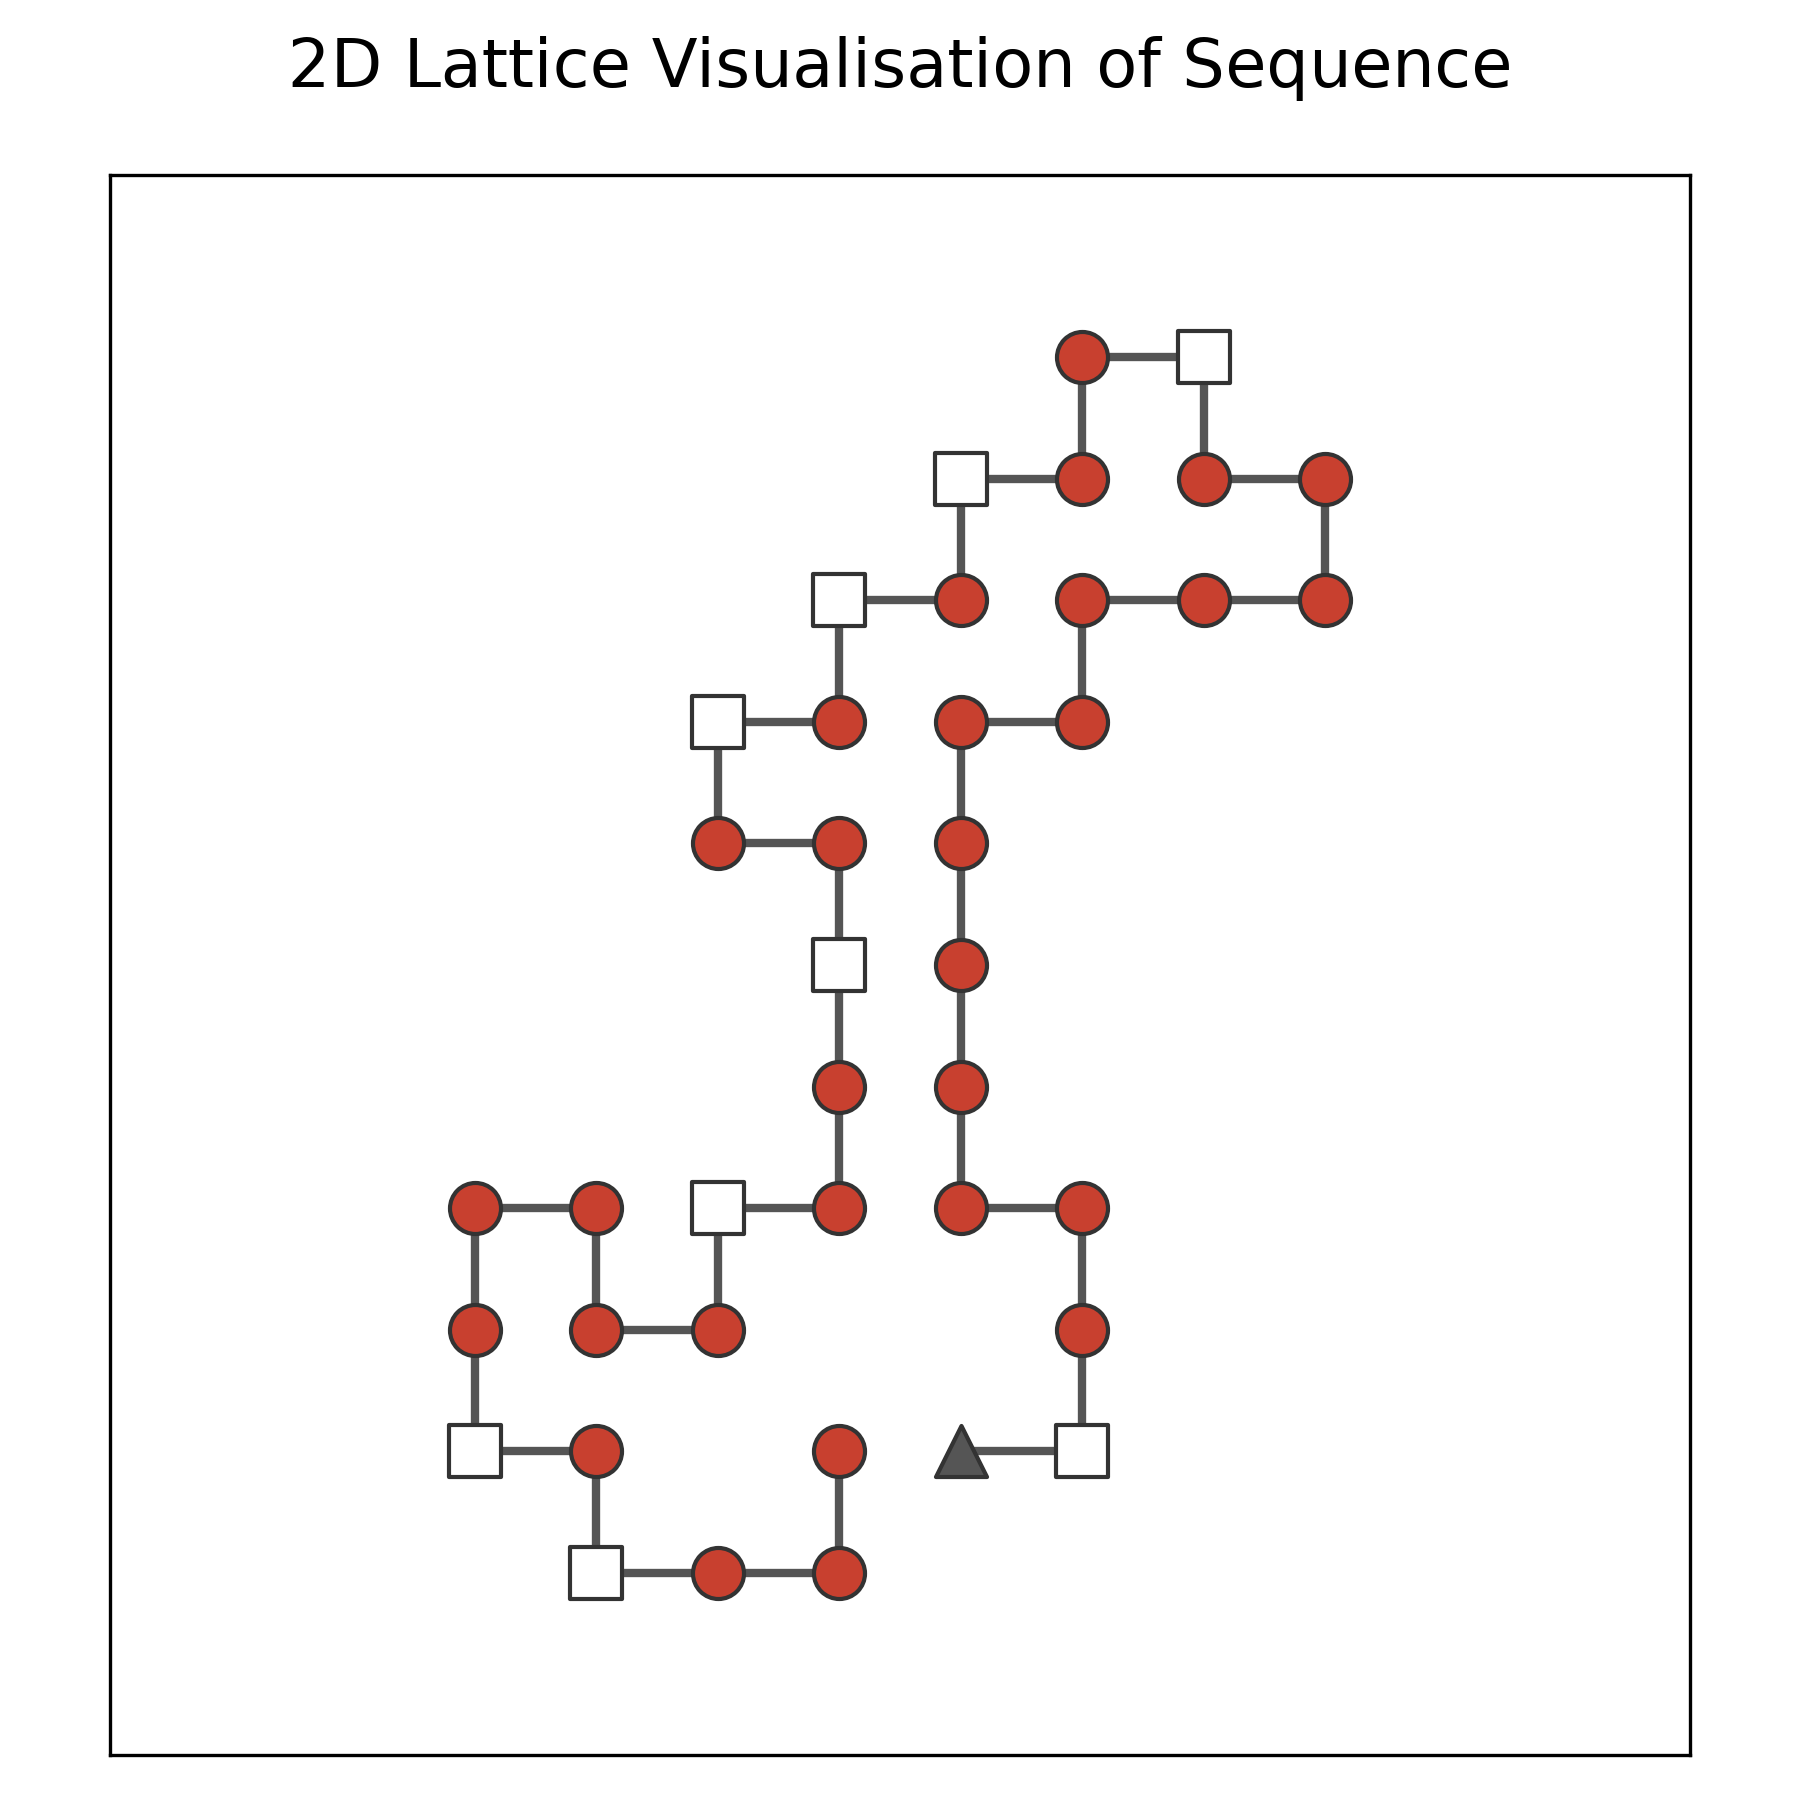
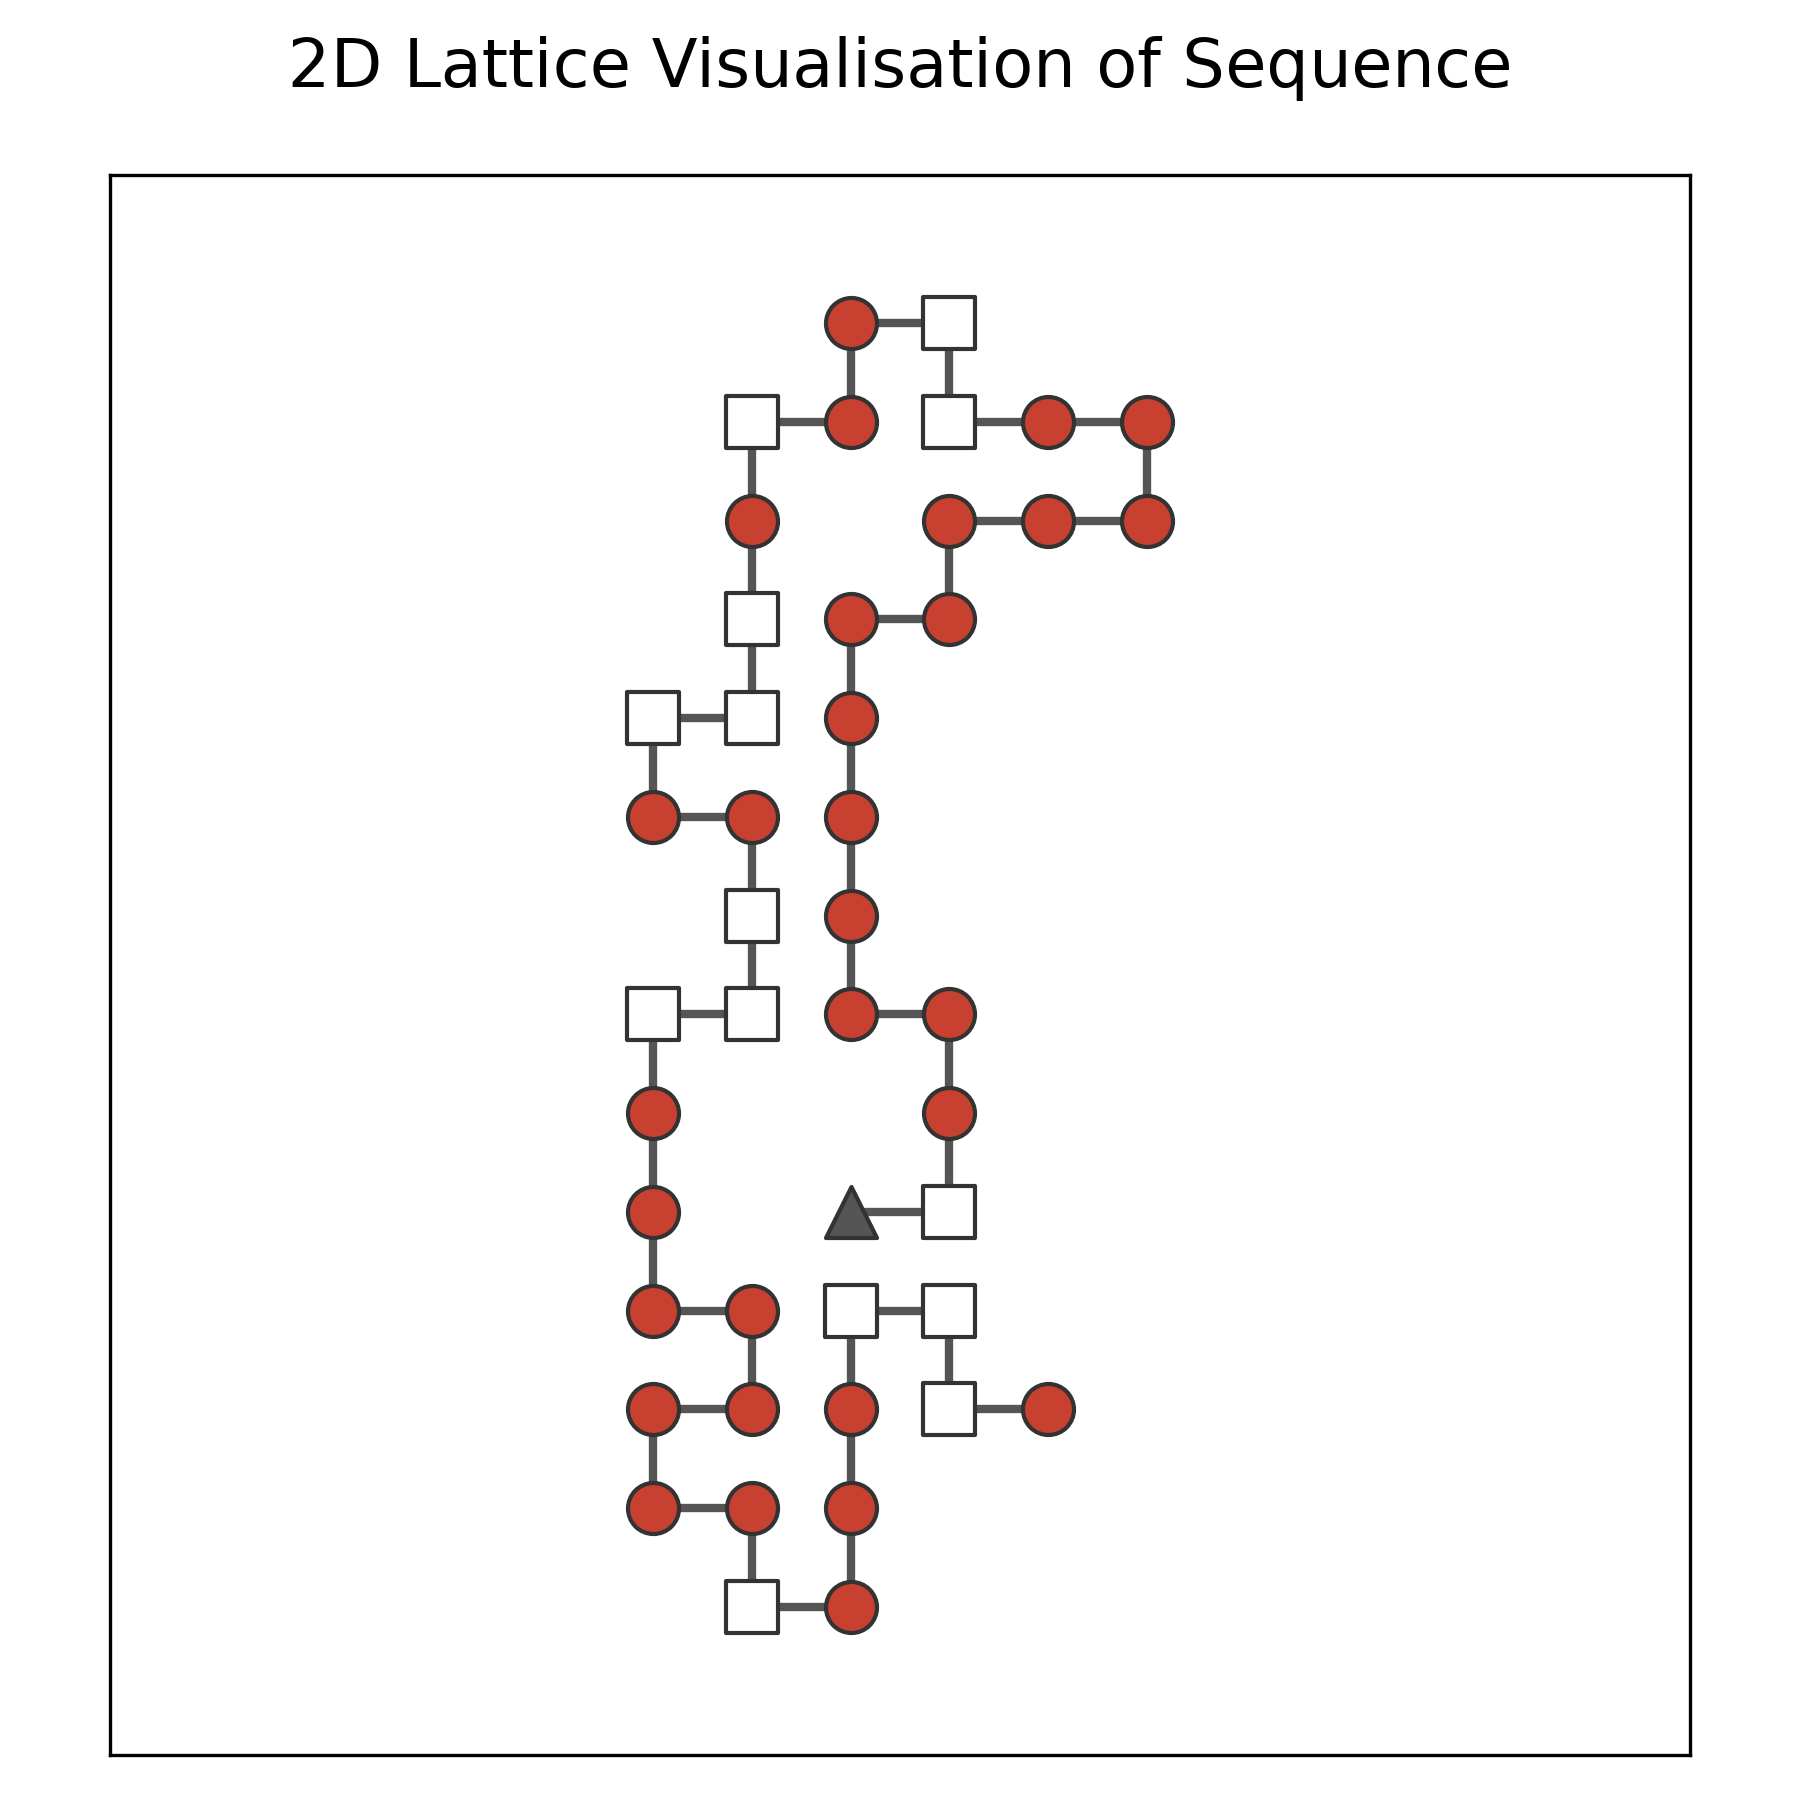
Test Suite Works

Changed region(s): [[0.2489, 0.1556, 0.7467, 0.9022]]

diff --git a/testing.py b/testing.py
@@ -1,5 +1,6 @@
 from word_tree import extract_words, rec_tree, word_to_turns, turns_to_path, traverse_word_tree
 from main import fold
+import random
 
 words = extract_words()
 word_tree = rec_tree(10)
@@ -38,9 +39,7 @@ def calculate_turns(coords):
         prev = (x, y)
     return turns
             
-
-# Test 1: fabulously, quiescence, tenfold
-def test1(w1="fabulously", w2="quiescence", w3="tenfold"):
+def test(w1="fabulously", w2="quiescence", w3="tenfold"):
     turns = word_to_turns(words, w1) + word_to_turns(words, w2) + word_to_turns(words, w3)
     coords = fold(turns)
     result_turns = calculate_turns(coords)
@@ -48,8 +47,13 @@ def test1(w1="fabulously", w2="quiescence", w3="tenfold"):
     t1, t2, t3 = result_turns[:turns_per_word], result_turns[turns_per_word:2*turns_per_word], result_turns[turns_per_word*2:]
     p1, p2, p3 = turns_to_path(t1), turns_to_path(t2), turns_to_path(t3)
     result_w1, result_w2, result_w3 = traverse_word_tree(word_tree, p1), traverse_word_tree(word_tree, p2), traverse_word_tree(word_tree, p3)
-    print(result_w1, result_w2, result_w3)
     assert w1 == result_w1 and w2 == result_w2 and w3 == result_w3
     
     
-#test1()
+def test_suite():
+    for i in range(40):
+        test(random.choice(words), random.choice(words), random.choice(words))
+        print("Test", i + 1, "Passed!")
+        
+    
+test_suite()

diff --git a/word_tree.py b/word_tree.py
@@ -7,17 +7,19 @@ def extract_words():
     return words
 
 # Create a ternary tree of depth 10 with the first 30k leafs as words
-word_exhaust = extract_words()
-def rec_tree(depth):
+def rec_tree(depth, words=extract_words(), index=0):
     if depth == 0:
-        global word_exhaust
-        if len(word_exhaust) > 0:
-            word = word_exhaust[0]
-            word_exhaust = word_exhaust[1:]
-            return [word]
+        if index < len(words):
+            return [words[index]]
         return []
-    return [rec_tree(depth-1), rec_tree(depth-1), rec_tree(depth-1)]
-word_tree = rec_tree(10)
+
+    size = 3 ** (depth - 1)
+
+    return [
+        rec_tree(depth - 1, words, index),
+        rec_tree(depth - 1, words, index + size),
+        rec_tree(depth - 1, words, index + 2 * size)
+    ]
 
 # Conversts index in words array to path in word tree
 def index_to_path(index, depth=10):
@@ -64,4 +66,4 @@ def turns_to_path(turns):
 def traverse_word_tree(word_tree, i):
     for index in i:
         word_tree = word_tree[int(index)]
-    return word_tree
+    return word_tree[0]
